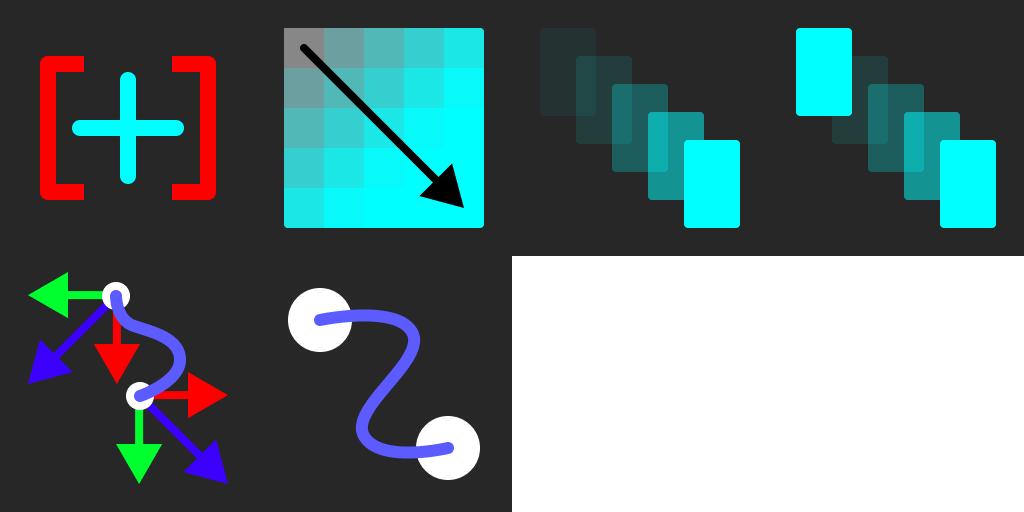
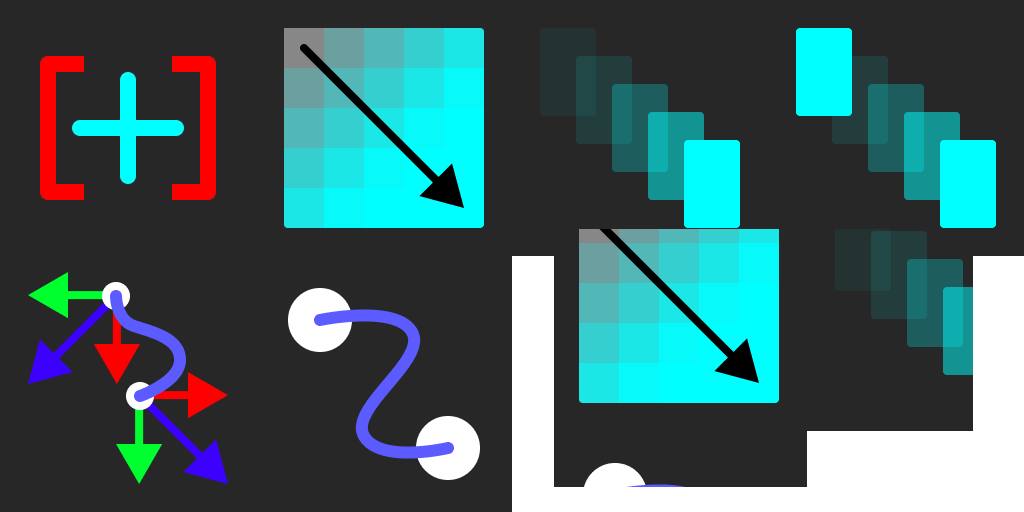
should be better now

Changed region(s): [[0.5312, 0.4375, 0.9688, 0.9688]]

diff --git a/src/gpu/renderer/viewport/blockTextureManager.cpp b/src/gpu/renderer/viewport/blockTextureManager.cpp
@@ -40,43 +40,6 @@ void BlockTextureManager::init(VulkanDevice* device) {
 	textureWriter.updateSet(device->getDevice(), textureArray->descriptor);
 }
 
-void BlockTextureManager::resizeTextureArray(uint32_t newLayerCount) {
-	VulkanDevice* dev = textureArray->device;
-	auto oldImage = textureArray->image;
-	uint32_t oldLayerCount = textureArray->maxLayers;
-
-	AllocatedImage newImage = createImage(
-		dev,
-		textureArray->texSize,
-		VK_FORMAT_R8G8B8A8_UNORM,
-		VK_IMAGE_USAGE_SAMPLED_BIT | VK_IMAGE_USAGE_TRANSFER_DST_BIT | VK_IMAGE_USAGE_TRANSFER_SRC_BIT,
-		false,
-		newLayerCount
-	);
-
-	dev->immediateSubmit([&](VkCommandBuffer cmd) {
-		for (uint32_t layer = 0; layer < oldLayerCount; layer++) {
-			VkImageCopy region{};
-			region.srcSubresource = { VK_IMAGE_ASPECT_COLOR_BIT, 0, layer, 1 };
-			region.dstSubresource = { VK_IMAGE_ASPECT_COLOR_BIT, 0, layer, 1 };
-			region.extent = { textureArray->texSize.width, textureArray->texSize.height, 1 };
-			vkCmdCopyImage(cmd,
-				oldImage.image, VK_IMAGE_LAYOUT_TRANSFER_SRC_OPTIMAL,
-				newImage.image, VK_IMAGE_LAYOUT_TRANSFER_DST_OPTIMAL,
-				1, &region);
-		}
-	});
-
-	destroyImage(oldImage);
-	textureArray->image = newImage;
-	textureArray->maxLayers = newLayerCount;
-
-	DescriptorWriter writer;
-	writer.writeImage(0, newImage.imageView, textureArray->sampler,
-		VK_IMAGE_LAYOUT_SHADER_READ_ONLY_OPTIMAL, VK_DESCRIPTOR_TYPE_COMBINED_IMAGE_SAMPLER);
-	writer.updateSet(dev->getDevice(), textureArray->descriptor);
-}
-
 BlockTextureId BlockTextureManager::addTexture(const std::string& path) {
 	// check if its already loaded
 	auto iter = loadedTextureFiles.find(path);
@@ -88,25 +51,30 @@ BlockTextureId BlockTextureManager::addTexture(const std::string& path) {
 	int texWidth, texHeight, texChannels;
 	stbi_uc* pixels = stbi_load(path.c_str(), &texWidth, &texHeight, &texChannels, STBI_rgb_alpha);
 	if (!pixels) {
-		throwFatalError("Failed to load texture: " + path);
+		logError("Failed to load texture: {}", "BlockTextureManager", path);
+		return 0;
 	}
 
-	std::pair<glm::vec2, uint32_t> pair = addTextureToArray(pixels, texWidth, texHeight);
+	addTextureToArray(pixels, {texWidth, texHeight}, {0, 0}, textureArray->nextFreeLayer);
 
 	BlockTextureId blockTextureId = findUnusedKey<BlockTextureId>(blockTextures, 1);
-	blockTextures.try_emplace(blockTextureId, pair.first, glm::vec2(texWidth, texHeight), pair.second);
+	blockTextures.try_emplace(blockTextureId, glm::vec2(0, 0), glm::vec2(texWidth, texHeight), textureArray->nextFreeLayer);
 
 	loadedTextureFiles.emplace(path, blockTextureId);
+
+	textureArray->nextFreeLayer++;
 
 	return blockTextureId;
 }
 
-BlockTextureId BlockTextureManager::refreshBlockTexture(const std::string& path) {
+void BlockTextureManager::refreshBlockTexture(const std::string& path) {
 	// check if its already loaded
 	auto iter = loadedTextureFiles.find(path);
 	if (iter == loadedTextureFiles.end()) {
-		return iter->second;
+		logError("Can't refresh block texture \"{}\" that is not loaded.", "BlockTextureManager", path);
+		return;
 	}
+	BlockTexture& blockTexture = blockTextures.at(iter->second);
 
 	// --- Load pixels from file ---
 	int texWidth, texHeight, texChannels;
@@ -115,14 +83,15 @@ BlockTextureId BlockTextureManager::refreshBlockTexture(const std::string& path)
 		throwFatalError("Failed to load texture: " + path);
 	}
 
-	std::pair<glm::vec2, uint32_t> pair = addTextureToArray(pixels, texWidth, texHeight);
+	if (blockTexture.texSize.x != texWidth || blockTexture.texSize.y != texHeight) {
+		logError(
+			"Can't refresh block texture \"{}\" that is not the same size. Before: {}x{}, After: {}x{}", "BlockTextureManager",
+			path, blockTexture.texSize.x, blockTexture.texSize.y, texWidth, texHeight
+		);
+		return;
+	}
 
-	BlockTextureId blockTextureId = findUnusedKey<BlockTextureId>(blockTextures, 1);
-	blockTextures.try_emplace(blockTextureId, pair.first, glm::vec2(texWidth, texHeight), pair.second);
-
-	loadedTextureFiles.emplace(path, blockTextureId);
-
-	return blockTextureId;
+	addTextureToArray(pixels, {texWidth, texHeight}, blockTexture.textureOrigin, blockTexture.texLayer);
 }
 
 BlockTextureCords BlockTextureManager::getBlockTextureCords(BlockTextureId blockTextureId) const {
@@ -167,14 +136,14 @@ void BlockTextureManager::cleanup() {
 	descriptorAllocator.cleanup();
 }
 
-std::pair<glm::vec2, uint32_t> BlockTextureManager::addTextureToArray(stbi_uc* pixels, int texWidth, int texHeight) {
-	if (textureArray->nextFreeLayer >= textureArray->maxLayers) {
-		resizeTextureArray(textureArray->maxLayers + 1);
+void BlockTextureManager::addTextureToArray(stbi_uc* pixels, glm::vec2 texSize, glm::vec2 texPos, unsigned int texLayer) {
+	if (texLayer >= textureArray->maxLayers) {
+		resizeTextureArray(texLayer + 1);
 	}
 
 	VkDevice device = textureArray->device->getDevice();
 
-	VkDeviceSize imageSize = static_cast<VkDeviceSize>(texWidth) * texHeight * 4;
+	VkDeviceSize imageSize = static_cast<VkDeviceSize>(texSize.x) * texSize.y * 4;
 
 	// --- Create staging buffer ---
 	AllocatedBuffer stagingBuffer = createBuffer(textureArray->device, imageSize, VK_BUFFER_USAGE_TRANSFER_SRC_BIT, VMA_ALLOCATION_CREATE_HOST_ACCESS_SEQUENTIAL_WRITE_BIT);
@@ -197,7 +166,7 @@ std::pair<glm::vec2, uint32_t> BlockTextureManager::addTextureToArray(stbi_uc* p
 		barrier.subresourceRange.aspectMask = VK_IMAGE_ASPECT_COLOR_BIT;
 		barrier.subresourceRange.baseMipLevel = 0;
 		barrier.subresourceRange.levelCount = 1;
-		barrier.subresourceRange.baseArrayLayer = textureArray->nextFreeLayer;
+		barrier.subresourceRange.baseArrayLayer = texLayer;
 		barrier.subresourceRange.layerCount = 1;
 		barrier.srcAccessMask = 0;
 		barrier.dstAccessMask = VK_ACCESS_TRANSFER_WRITE_BIT;
@@ -212,10 +181,11 @@ std::pair<glm::vec2, uint32_t> BlockTextureManager::addTextureToArray(stbi_uc* p
 
 		region.imageSubresource.aspectMask = VK_IMAGE_ASPECT_COLOR_BIT;
 		region.imageSubresource.mipLevel = 0;
-		region.imageSubresource.baseArrayLayer = textureArray->nextFreeLayer;
+		region.imageSubresource.baseArrayLayer = texLayer;
 		region.imageSubresource.layerCount = 1;
 
-		region.imageExtent = { static_cast<uint32_t>(texWidth), static_cast<uint32_t>(texHeight), 1 };
+		region.imageOffset = { static_cast<int32_t>(texPos.x), static_cast<int32_t>(texPos.y), 0 };
+		region.imageExtent = { static_cast<uint32_t>(texSize.x), static_cast<uint32_t>(texSize.y), 1 };
 
 		vkCmdCopyBufferToImage(cmd, stagingBuffer.buffer, textureArray->image.image, VK_IMAGE_LAYOUT_TRANSFER_DST_OPTIMAL, 1, &region);
 
@@ -230,6 +200,41 @@ std::pair<glm::vec2, uint32_t> BlockTextureManager::addTextureToArray(stbi_uc* p
 	});
 
 	destroyBuffer(stagingBuffer);
+}
 
-	return {{0, 0}, (textureArray->nextFreeLayer)++}; // needs to be post inc
+void BlockTextureManager::resizeTextureArray(uint32_t newLayerCount) {
+	VulkanDevice* dev = textureArray->device;
+	auto oldImage = textureArray->image;
+	uint32_t oldLayerCount = textureArray->maxLayers;
+
+	AllocatedImage newImage = createImage(
+		dev,
+		textureArray->texSize,
+		VK_FORMAT_R8G8B8A8_UNORM,
+		VK_IMAGE_USAGE_SAMPLED_BIT | VK_IMAGE_USAGE_TRANSFER_DST_BIT | VK_IMAGE_USAGE_TRANSFER_SRC_BIT,
+		false,
+		newLayerCount
+	);
+
+	dev->immediateSubmit([&](VkCommandBuffer cmd) {
+		for (uint32_t layer = 0; layer < oldLayerCount; layer++) {
+			VkImageCopy region{};
+			region.srcSubresource = { VK_IMAGE_ASPECT_COLOR_BIT, 0, layer, 1 };
+			region.dstSubresource = { VK_IMAGE_ASPECT_COLOR_BIT, 0, layer, 1 };
+			region.extent = { textureArray->texSize.width, textureArray->texSize.height, 1 };
+			vkCmdCopyImage(cmd,
+				oldImage.image, VK_IMAGE_LAYOUT_TRANSFER_SRC_OPTIMAL,
+				newImage.image, VK_IMAGE_LAYOUT_TRANSFER_DST_OPTIMAL,
+				1, &region);
+		}
+	});
+
+	destroyImage(oldImage);
+	textureArray->image = newImage;
+	textureArray->maxLayers = newLayerCount;
+
+	DescriptorWriter writer;
+	writer.writeImage(0, newImage.imageView, textureArray->sampler,
+		VK_IMAGE_LAYOUT_SHADER_READ_ONLY_OPTIMAL, VK_DESCRIPTOR_TYPE_COMBINED_IMAGE_SAMPLER);
+	writer.updateSet(dev->getDevice(), textureArray->descriptor);
 }

diff --git a/src/environment/blockRenderDataFeeder.cpp b/src/environment/blockRenderDataFeeder.cpp
@@ -50,7 +50,7 @@ void BlockRenderDataFeeder::newBlockTypeUpdate(const DataUpdateEventManager::Eve
 	} else if (data->get() < BlockType::CUSTOM) {
 		renderData.texturePath = "";
 		renderData.tileSize = {256, 256};
-		renderData.smallestCordTile = {data->get(), 0};
+		renderData.smallestCordTile = {data->get()+1, 0};
 		renderData.blockSize = {1, 1};
 		MainRenderer::get().setBlockTexture(
 			blockRenderDataId,
@@ -185,23 +185,18 @@ void BlockRenderDataFeeder::blockDataTextureChangeUpdate(const DataUpdateEventMa
 		logError("Failed to load texture {}", "BlockRenderDataFeeder", data->get().second);
 	}
 
-	iter->second.texturePath = "";
+	iter->second.texturePath = data->get().second;
 	iter->second.tileSize = {0, 0}; // mean that the whole texture is 1 tile.
 	iter->second.smallestCordTile = {0, 0};
 	iter->second.blockSize = {1, 1};
-	MainRenderer::get().setBlockTexture(
-		iter->second.blockRenderDataId,
-		mainBlockTextureId,
-		iter->second.tileSize,
-		iter->second.smallestCordTile,
-		iter->second.blockSize
-	);
+	MainRenderer::get().setBlockTexture(iter->second.blockRenderDataId, blockTextureId);
 }
 
 void BlockRenderDataFeeder::refreshBlockTexture(BlockType blockType) {
 	auto iter = blockTypeToRenderData.find(blockType);
 	if (iter == blockTypeToRenderData.end()) {
 		logError("Failed to refresh block texture for BlockType {}", "BlockRenderDataFeeder", blockType);
+		return;
 	}
 
 	MainRenderer::get().refreshBlockTexture(iter->second.texturePath);

diff --git a/src/backend/blockData/blockData.h b/src/backend/blockData/blockData.h
@@ -5,6 +5,7 @@
 #include "backend/dataUpdateEventManager.h"
 #include "backend/position/position.h"
 #include "util/bidirectionalMultiSecondKeyMap.h"
+#include "util/vec2.h"
 
 class BlockData {
 	friend class BlockDataManager;
@@ -190,6 +191,9 @@ private:
 	std::string name = "Unnamed Block";
 	std::string path = "Basic";
 	std::string texturePath = "";
+	Vec2Int textureTileSize = {0, 0}; // mean that the whole texture is 1 tile.
+	Vec2Int textureSmallestCordTile = {0, 0};
+	Vec2Int textureBlockTileSize = {1, 1};
 	Size blockSize = Size(1);
 	connection_end_id_t inputConnectionCount = 0;
 	std::unordered_map<connection_end_id_t, ConnectionData> connections;

diff --git a/src/gpu/renderer/viewport/blockTextureManager.h b/src/gpu/renderer/viewport/blockTextureManager.h
@@ -49,7 +49,6 @@ public:
 class BlockTextureManager {
 public:
 	void init(VulkanDevice* device);
-	void resizeTextureArray(uint32_t newLayerCount);
 	BlockTextureId addTexture(const std::string& path);
 	void refreshBlockTexture(const std::string& path);
 	BlockTextureCords getBlockTextureCords(BlockTextureId blockTextureId) const;
@@ -62,7 +61,8 @@ public:
 
 private:
 	// this needs to free pixels
-	std::pair<glm::vec2, uint32_t> addTextureToArray(stbi_uc* pixels, int texWidth, int texHeight);
+	void addTextureToArray(stbi_uc* pixels, glm::vec2 texSize, glm::vec2 texPos, unsigned int texLayer);
+	void resizeTextureArray(uint32_t newLayerCount);
 
 	VulkanDevice* device;
 

diff --git a/src/gui/mainWindow/sideBar/icEditor/blockCreationWindow.cpp b/src/gui/mainWindow/sideBar/icEditor/blockCreationWindow.cpp
@@ -74,7 +74,8 @@ BlockCreationWindow::BlockCreationWindow(
 		}, this, nullptr, nullptr, 0, nullptr, true);
 	}));
 	reloadTexture->AddEventListener("click", new EventPasser([this](Rml::Event& event){
-		logError("Reload texture not supported yet.");
+		Circuit* circuit = this->mainWindow->getActiveCircuitViewWidget()->getCircuitView()->getCircuit();
+		this->environment->getBlockRenderDataFeeder().refreshBlockTexture(circuit->getBlockType());
 	}));
 	removeTexture->AddEventListener("click", new EventPasser([this](Rml::Event& event){
 		Circuit* circuit = this->mainWindow->getActiveCircuitViewWidget()->getCircuitView()->getCircuit();